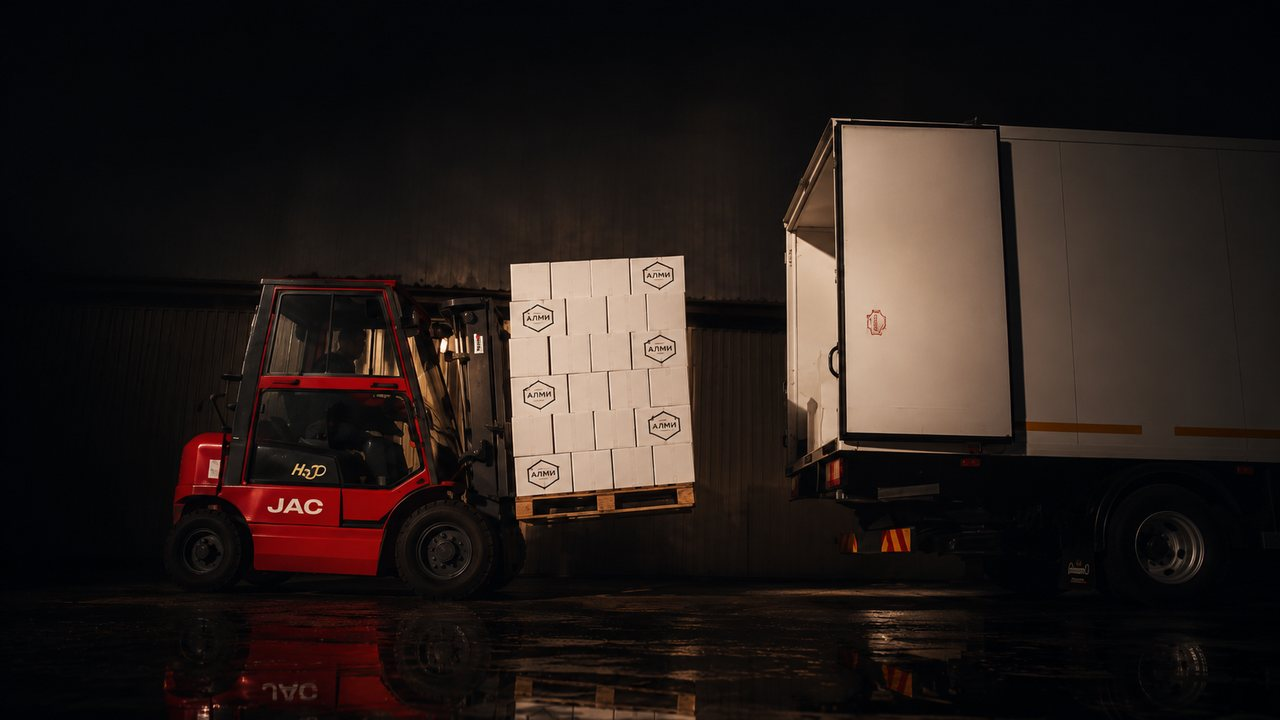
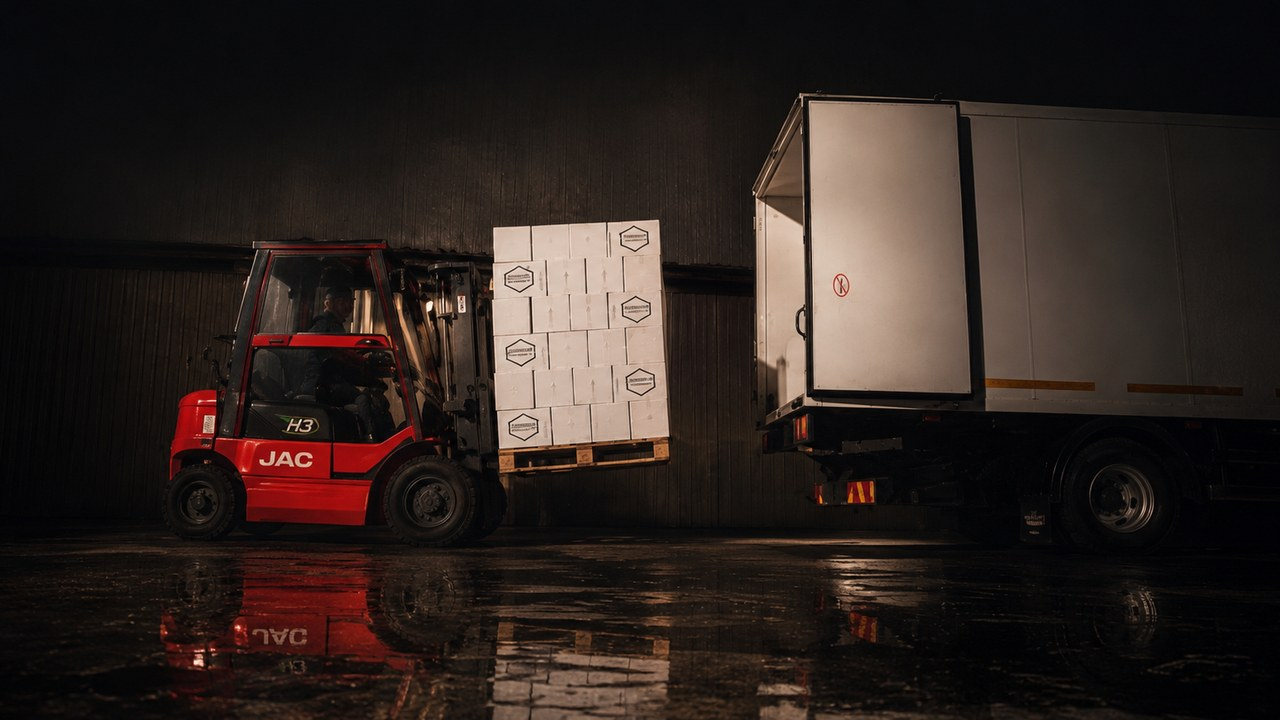
Add files via upload

diff --git a/index.html b/index.html
@@ -778,7 +778,7 @@
     { id:"wggSRwVaxEo", t:"Имидж студия «Подиум»",            c:"Commercial", d:"0:20" },
     { id:"IqkTcyahR-s", t:"ООО «Стройконструкция»",            c:"Commercial", d:"1:25" },
     { id:"7KNVivoYzFQ", t:"КЦ Зеленоград",                     c:"Reportage",  d:"1:12" },
-    { id:"YtHPkakfcMI", t:"Мясокомбинат «Сургутский»",         c:"Commercial", d:"0:11" },
+    { id:"YtHPkakfcMI", t:"Мясокомбинат «Сургутский»",         c:"Commercial", d:"0:11", cover:"covers/commercial/surgutsky.jpg" },
     { id:"XWkZi-XpLzw", t:"Улочная булочная",                  c:"Commercial", d:"0:21" },
     { id:"CPBJvDUuwYk", t:"АЛМИ",                              c:"Commercial", d:"2:01", cover:"covers/commercial/almi.jpg" },
     { id:"gzDpc397S_8", t:"Хостел «Кетрин» — «4 комнаты»",     c:"Commercial", d:"1:05", cover:"covers/commercial/hostel-4komnaty.jpg" }
@@ -791,7 +791,9 @@
     { id:"S9yVAB1rOCE", t:"Как надо проявляться?",                         cover:"covers/social/kak-nado-proyavlyatsya.jpg" },
     { id:"IYGSHRnUc7E", t:"БЬЮТИГОЛИК — Время признаться",                 cover:"covers/social/vremya-priznatsya.jpg" },
     { id:"2fgqo8pD5rU", t:"Салон красоты «Всё кучеряво»",                  cover:"covers/social/salon-kucheryavo.jpg" },
-    { id:"HMsBigJl6uI", t:"Стоматология Bambino",                          cover:"covers/social/bambino.jpg" }
+    { id:"HMsBigJl6uI", t:"Стоматология Bambino",                          cover:"covers/social/bambino.jpg" },
+    { id:"BjFpQ82zP0w", t:"LSA АВТО HOUSE" },
+    { id:"JjbUtdmkl6M", t:"Новый год — Дед Мороз" }
   ];
 
   const corporate = [